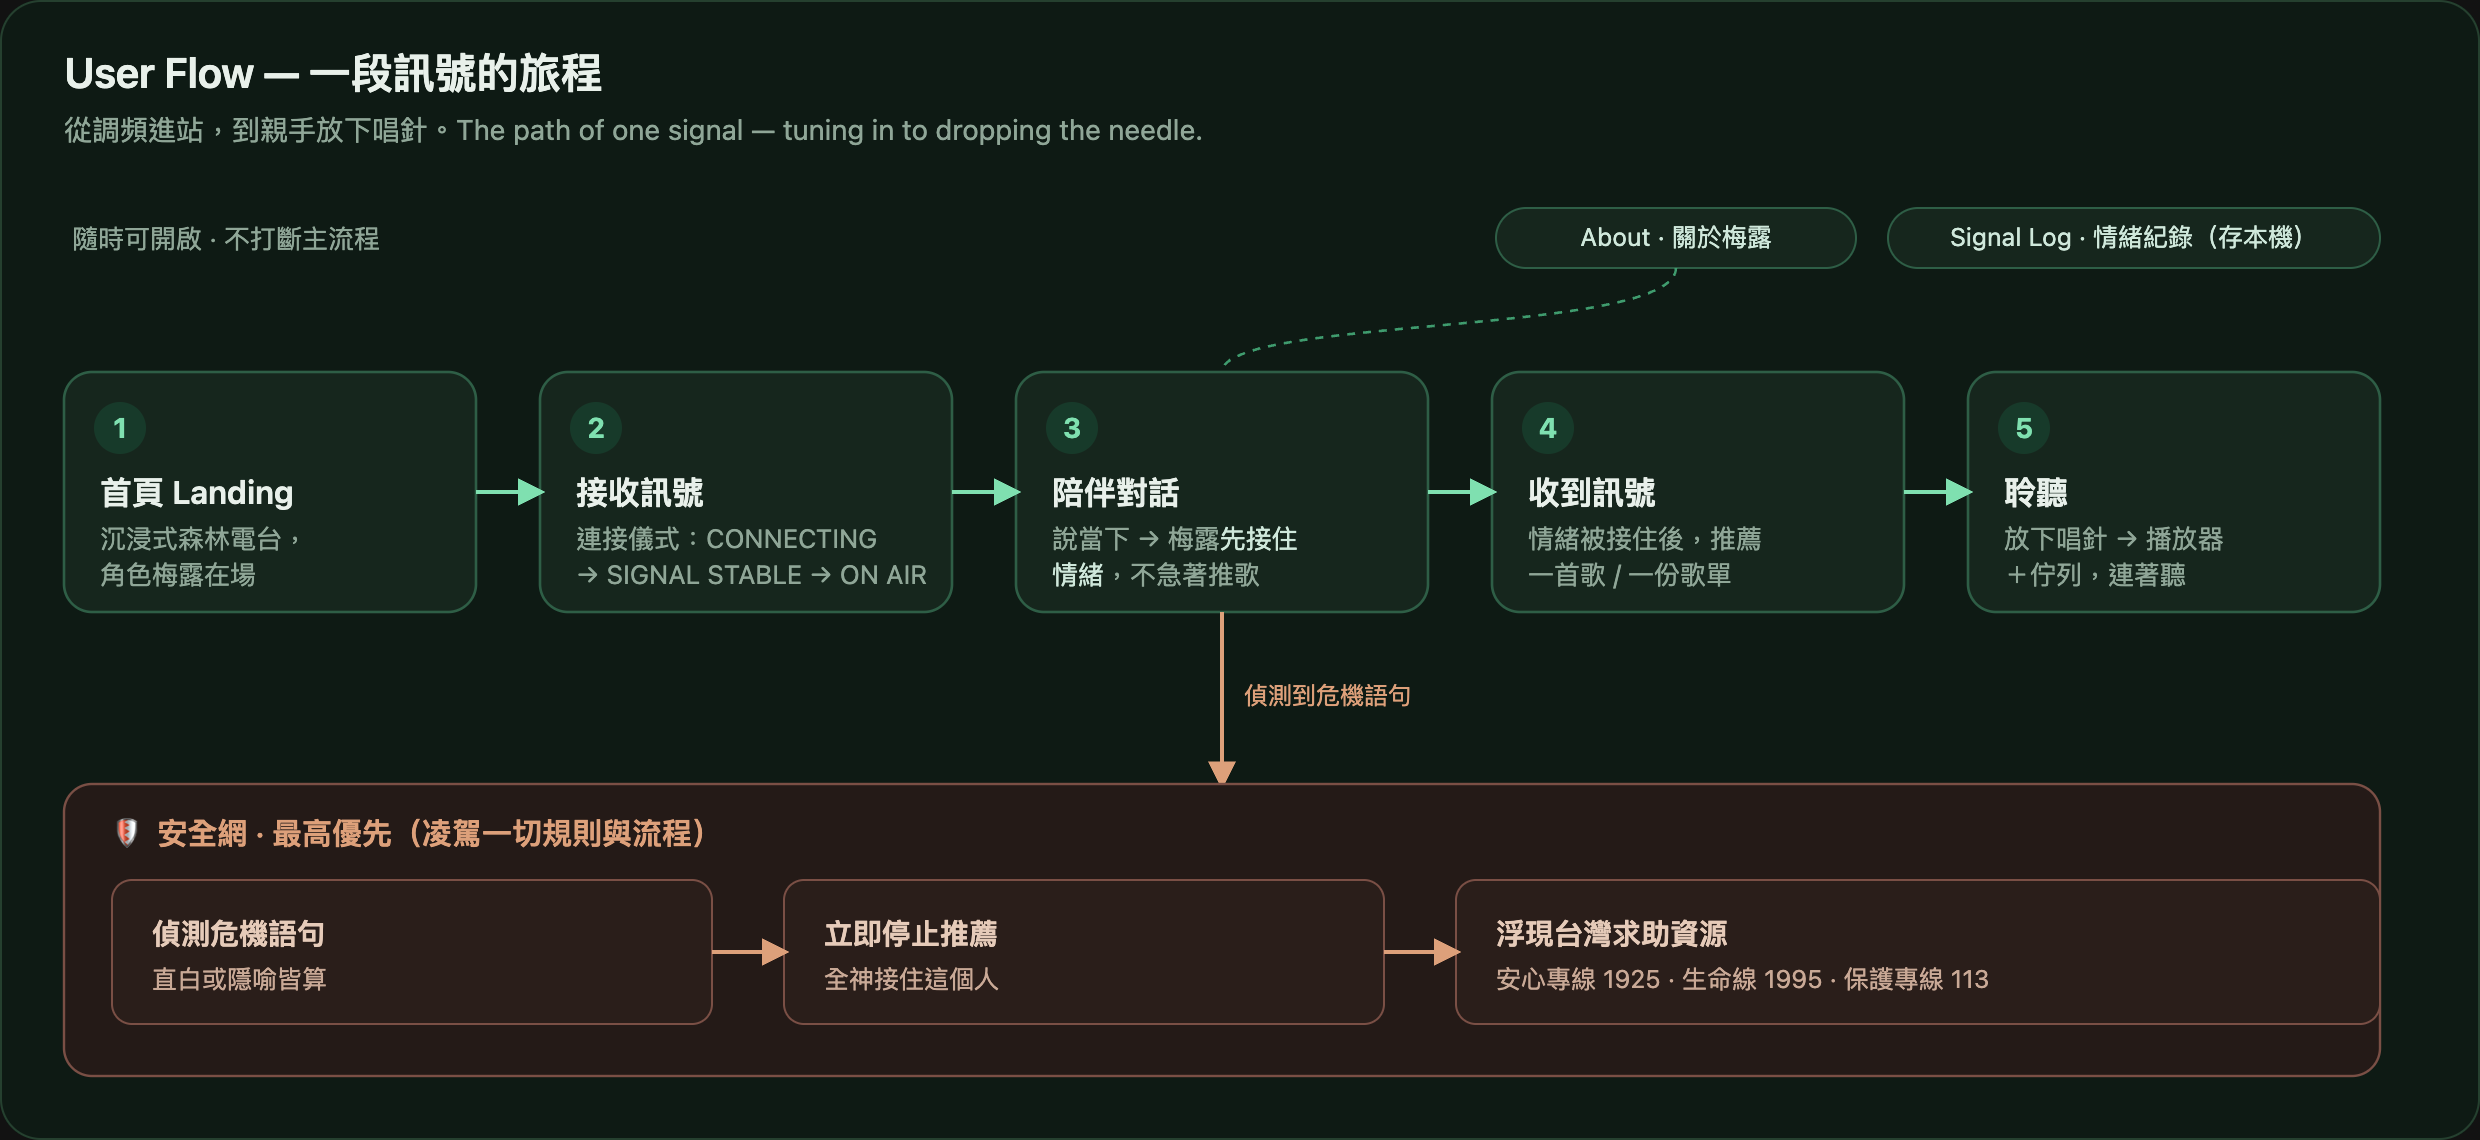
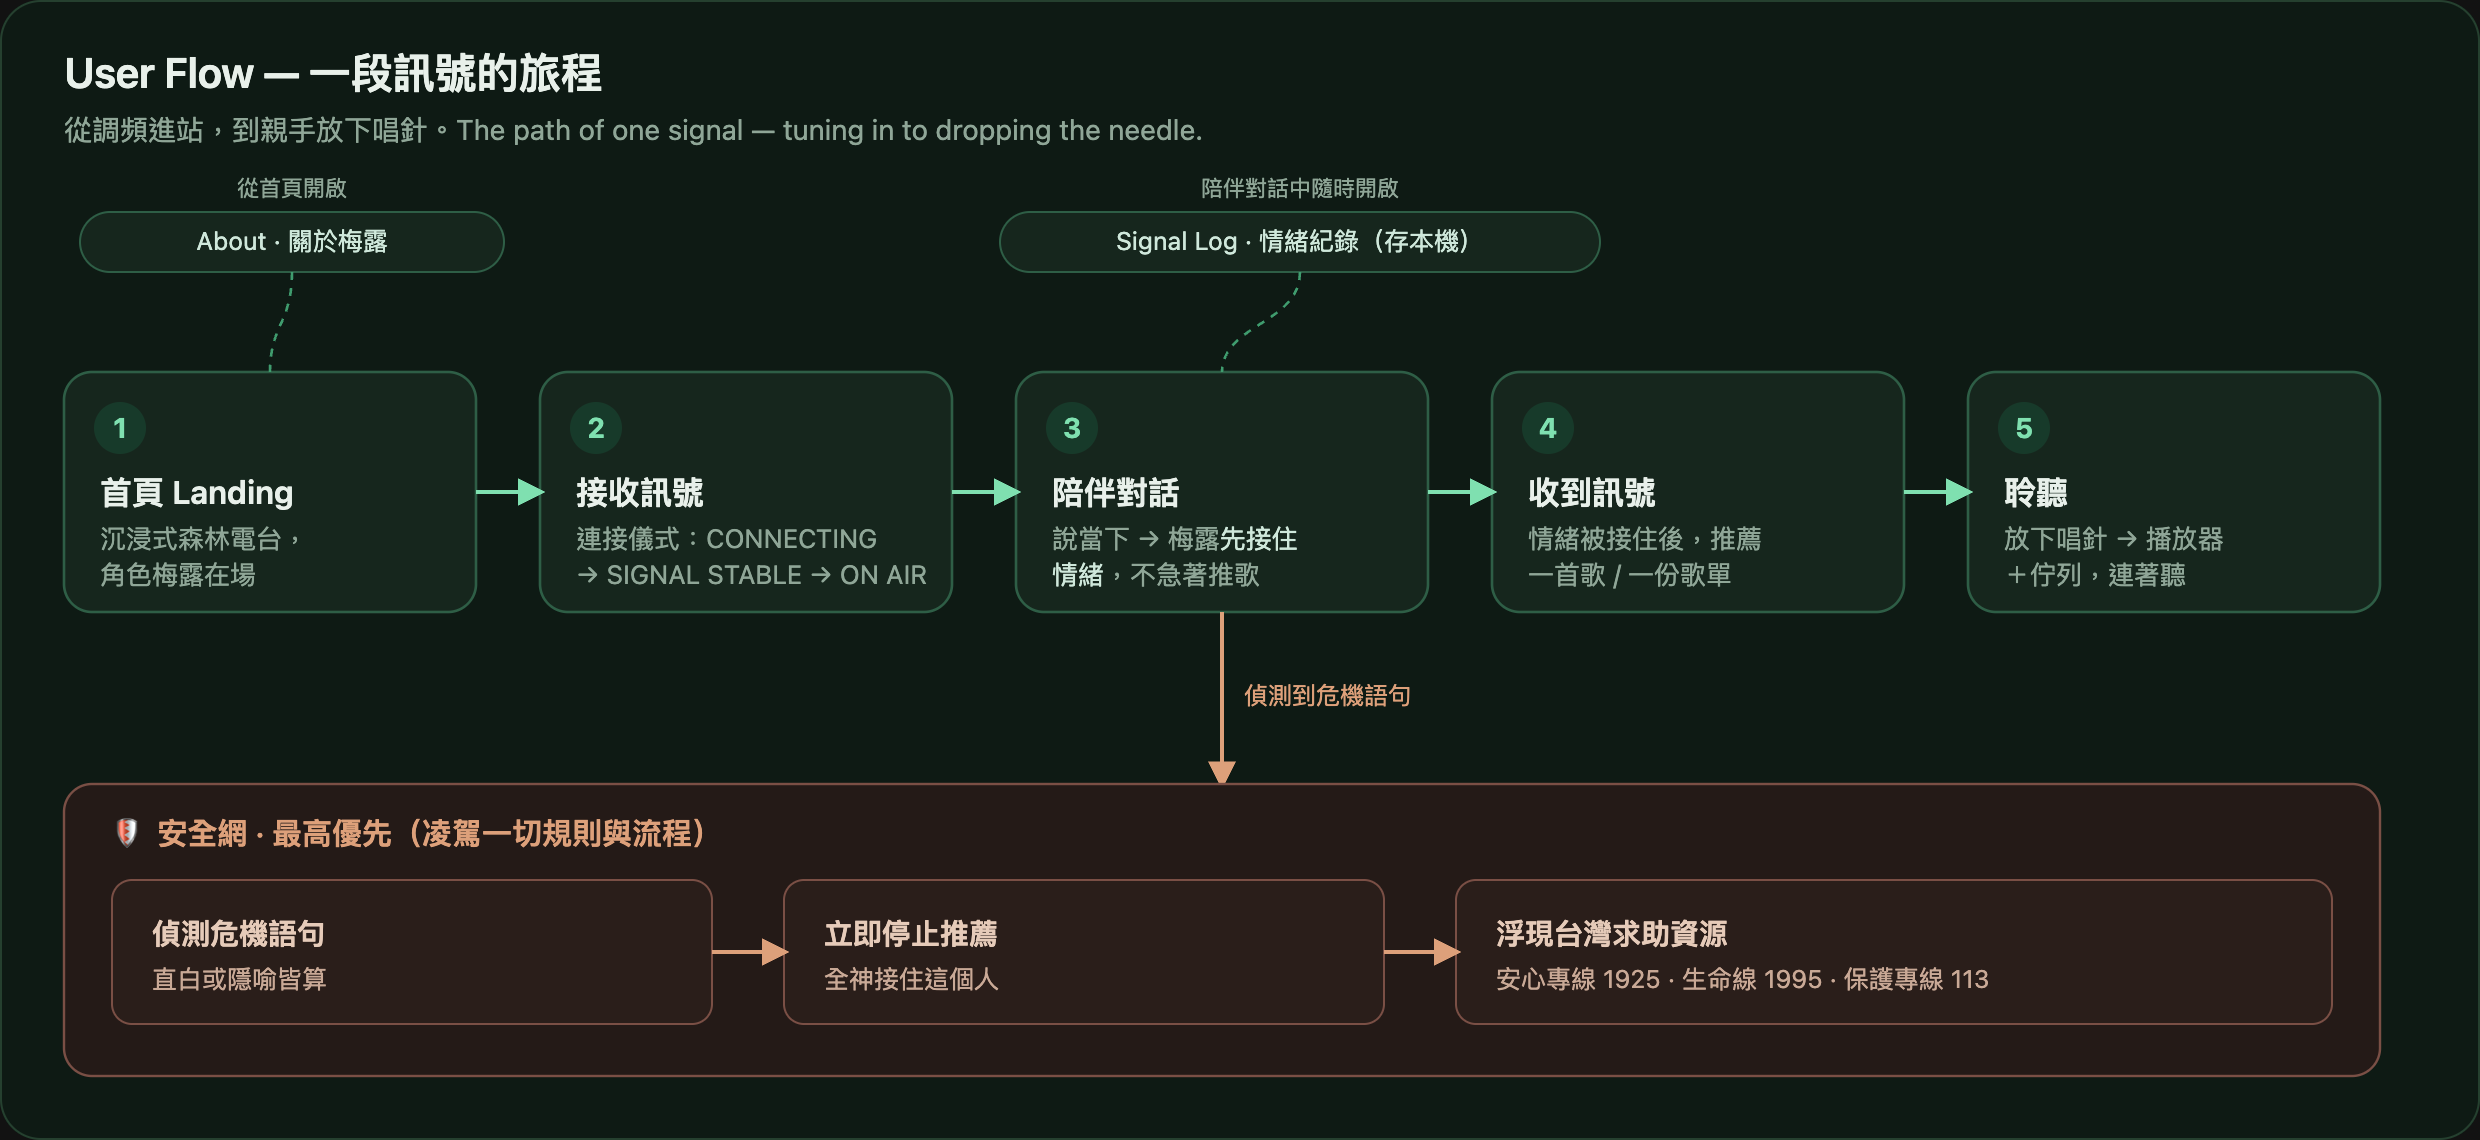
Update portfolio 2026-07-09 02:12

Changed region(s): [[0.4347, 0.1535, 0.7141, 0.2456], [0.031, 0.1535, 0.1552, 0.2456], [0.7762, 0.1842, 0.9315, 0.2456]]

diff --git a/project-melu.html b/project-melu.html
@@ -66,6 +66,36 @@
   }
   .melu-techstack p{ margin:0; font-size:15px; line-height:1.85; opacity:.9; }
   .melu-techstack strong{ color:var(--charcoal); font-weight:600; }
+  /* Takeaway note — subtle tinted box, pushed down */
+  .melu-note{
+    margin-top:48px;
+    padding:22px 26px;
+    background:rgba(37,37,34,0.045);
+    border-radius:12px;
+  }
+  .melu-note p{ margin:0; font-size:15px; line-height:1.9; opacity:.9; }
+  .melu-note strong{ color:var(--charcoal); }
+  /* Iteration list — horizontal rows (head left, detail right) */
+  .melu-iter{ margin-top:48px; }
+  .melu-iter__row{
+    display:grid;
+    grid-template-columns:minmax(190px,0.85fr) minmax(0,1.6fr);
+    gap:20px 44px;
+    padding:26px 0;
+    border-top:1px solid var(--border);
+  }
+  .melu-iter__row:last-of-type{ border-bottom:1px solid var(--border); }
+  .melu-iter__head .meta-label{ margin-bottom:8px; }
+  .melu-iter__head h3{ margin:0; }
+  .melu-iter__body p{ margin:0; line-height:1.9; }
+  /* Problem / Root cause / Fix labels — colour-coded */
+  .melu-lbl{ font-weight:600; }
+  .melu-lbl--q{ color:#b0553f; } /* 問題 */
+  .melu-lbl--c{ color:#8c7a4b; } /* 根因 */
+  .melu-lbl--f{ color:#5e8368; } /* 修正 */
+  @media (max-width:700px){
+    .melu-iter__row{ grid-template-columns:1fr; gap:10px; padding:22px 0; }
+  }
   /* CTA */
   .melu-cta{ text-align:center; }
   .melu-cta .wrap > p{ margin-left:auto; margin-right:auto; }
@@ -366,6 +396,14 @@
 
     </div>
 
+    <figure class="case-image case-image--wide case-image--push">
+      <img src="assets/melu/melu-user-flow.svg"
+           alt="MELU 使用者流程圖：首頁 → 接收訊號（連接儀式）→ 陪伴對話（先接住情緒）→ 收到訊號（推薦歌曲/歌單）→ 聆聽（放下唱針、播放器＋佇列）；About 與 Signal Log 隨時可開啟；偵測到危機語句時進入最高優先的安全網支線"
+           loading="lazy" style="border-radius:16px;">
+      <figcaption>
+        User Flow｜主流程五步，加上「隨時可開啟」的 About / Signal Log，以及凌駕一切的安全網支線。</figcaption>
+    </figure>
+
     <p class="melu-steps-lead">實際操作，是這樣六步：</p>
 
     <div class="interaction-loop melu-grid-3">
@@ -467,8 +505,9 @@
 
     </div>
 
-    <p class="paragraph-spaced">
-      像素字體（Press Start 2P）只保留給 logo、狀態文字與英文標籤；中文一律使用系統字型。角色與場景的動態維持低頻、不急促，光效只在需要時出現，避免過量的粒子效果。</p>
+    <div class="melu-note">
+      <p>像素字體（Press Start 2P）只保留給 logo、狀態文字與英文標籤；中文一律使用系統字型。角色與場景的動態維持低頻、不急促，光效只在需要時出現，避免過量的粒子效果。</p>
+    </div>
   </div>
 </section>
 
@@ -542,6 +581,95 @@
 
     <div class="melu-techstack">
       <p><strong>技術堆疊</strong>　Next.js（App Router）＋ React、Anthropic API（structured outputs 讓輸出鎖進固定格式）、Apple MusicKit（伺服器以 JWT 簽發開發者權杖）。另有一層簡→繁轉換，確保回覆不漏出簡體字。</p>
+    </div>
+  </div>
+</section>
+
+<!-- Testing & Iteration -->
+<section class="case-section">
+  <div class="wrap">
+    <p class="case-label">Testing &amp; Iteration</p>
+    <h2>把它當成真的產品用，然後修</h2>
+    <p>
+      這個原型不是「做完就結束」——我持續把它當真的產品在用（dogfooding），
+      而真正冒出來的問題，往往比想像的更基本。以下是幾個「用著用著發現 → 找到根因 → 修好」的例子。</p>
+
+    <figure class="case-image case-image--wide case-image--push">
+      <img src="assets/melu/melu-artist-guard-beforeafter.png"
+           alt="播放佇列 before / after 對照：修正前，指名 Slayyyter 的歌單混進 Mariah Carey 的歌；加上歌手守衛後，整份歌單都是 Slayyyter"
+           loading="lazy" style="border-radius:16px;">
+      <figcaption>歌手守衛 before / after：指名 Slayyyter 的歌單，從「混進別的歌手」到「整份都對」。</figcaption>
+    </figure>
+
+    <div class="melu-iter">
+      <article class="melu-iter__row">
+        <div class="melu-iter__head">
+          <p class="meta-label">Iteration · Playlist</p>
+          <h3>指名歌手的歌單，混進了別人的歌</h3>
+        </div>
+        <div class="melu-iter__body">
+          <p>
+            <strong class="melu-lbl melu-lbl--q">問題：</strong>要 Slayyyter 專輯的歌，佇列卻冒出 Mariah Carey 的聖誕歌（見上圖）。<br>
+            <strong class="melu-lbl melu-lbl--c">根因：</strong>「整份歌單」是唯一沒做歌手驗證的路徑——直接取了 Apple 搜尋的第一名。<br>
+            <strong class="melu-lbl melu-lbl--f">修正：</strong>每首查詢帶「應該是誰唱的」，伺服器逐首比對歌手、對不上就跳過；「某張專輯」則直接向 Apple 取正版曲目清單。</p>
+        </div>
+      </article>
+
+      <article class="melu-iter__row">
+        <div class="melu-iter__head">
+          <p class="meta-label">Iteration · Player</p>
+          <h3>「立即播放」要按兩下才會動</h3>
+        </div>
+        <div class="melu-iter__body">
+          <p>
+            <strong class="melu-lbl melu-lbl--q">問題：</strong>在佇列點「立即播放」，歌換了卻不出聲，得再手動放一次唱針。<br>
+            <strong class="melu-lbl melu-lbl--c">根因：</strong>換歌只移動了「目前播放」指標，沒有觸發「自動落針」。<br>
+            <strong class="melu-lbl melu-lbl--f">修正：</strong>點下時遞增一個訊號，讓播放器在換歌前先設好自動落針——現在一點就播，儀式感留給首播的歌。</p>
+        </div>
+      </article>
+
+      <article class="melu-iter__row">
+        <div class="melu-iter__head">
+          <p class="meta-label">Iteration · Player</p>
+          <h3>按了隨機，畫面看起來沒反應</h3>
+        </div>
+        <div class="melu-iter__body">
+          <p>
+            <strong class="melu-lbl melu-lbl--q">問題：</strong>隨機鈕會變色，但歌單看起來完全沒變，像壞了。<br>
+            <strong class="melu-lbl melu-lbl--c">根因：</strong>原本設計成「等這首播完才隨機抽下一首」，按下的當下沒有任何可見變化。<br>
+            <strong class="melu-lbl melu-lbl--f">修正：</strong>改成按下就<strong>立刻打散「接下來」的順序</strong>，並照打散後的順序播——所見即所播。</p>
+        </div>
+      </article>
+
+      <article class="melu-iter__row">
+        <div class="melu-iter__head">
+          <p class="meta-label">Iteration · Conversation</p>
+          <h3>梅露會「用猜的」、附和沒把握的事</h3>
+        </div>
+        <div class="melu-iter__body">
+          <p>
+            <strong class="melu-lbl melu-lbl--q">問題：</strong>使用者說某藝人做過某事，梅露沒查證就順著附和，甚至腦補細節。<br>
+            <strong class="melu-lbl melu-lbl--c">根因：</strong>模型純靠記憶回答，且天生傾向迎合使用者的前提。<br>
+            <strong class="melu-lbl melu-lbl--f">修正：</strong>接上「只查音樂」的事實查證、persona 改成「不確定先查、查不到就誠實說」，並要求遇到不認得的藝名（如中文譯名）先查再回。</p>
+        </div>
+      </article>
+
+      <article class="melu-iter__row">
+        <div class="melu-iter__head">
+          <p class="meta-label">Iteration · Localization</p>
+          <h3>繁體回覆偶爾漏出簡體字</h3>
+        </div>
+        <div class="melu-iter__body">
+          <p>
+            <strong class="melu-lbl melu-lbl--q">問題：</strong>中文回覆裡混進「这／说／里」等簡體字。<br>
+            <strong class="melu-lbl melu-lbl--c">根因：</strong>LLM 產生繁中時偶有滲漏，光靠提示詞壓不到 100%。<br>
+            <strong class="melu-lbl melu-lbl--f">修正：</strong>在伺服器端做確定性的簡→繁轉換，前端顯示層再兜一層——連舊訊息在畫面上都保證是繁體。</p>
+        </div>
+      </article>
+    </div>
+
+    <div class="melu-note">
+      <p>這些迭代有個共同點：問題常常不在「AI 夠不夠聰明」，而在<strong>互動的可預期性</strong>與<strong>輸出的可信度</strong>——按下去有沒有如預期反應、拿到的東西是不是真的。把這兩件事做對，產品才站得住。</p>
     </div>
   </div>
 </section>
